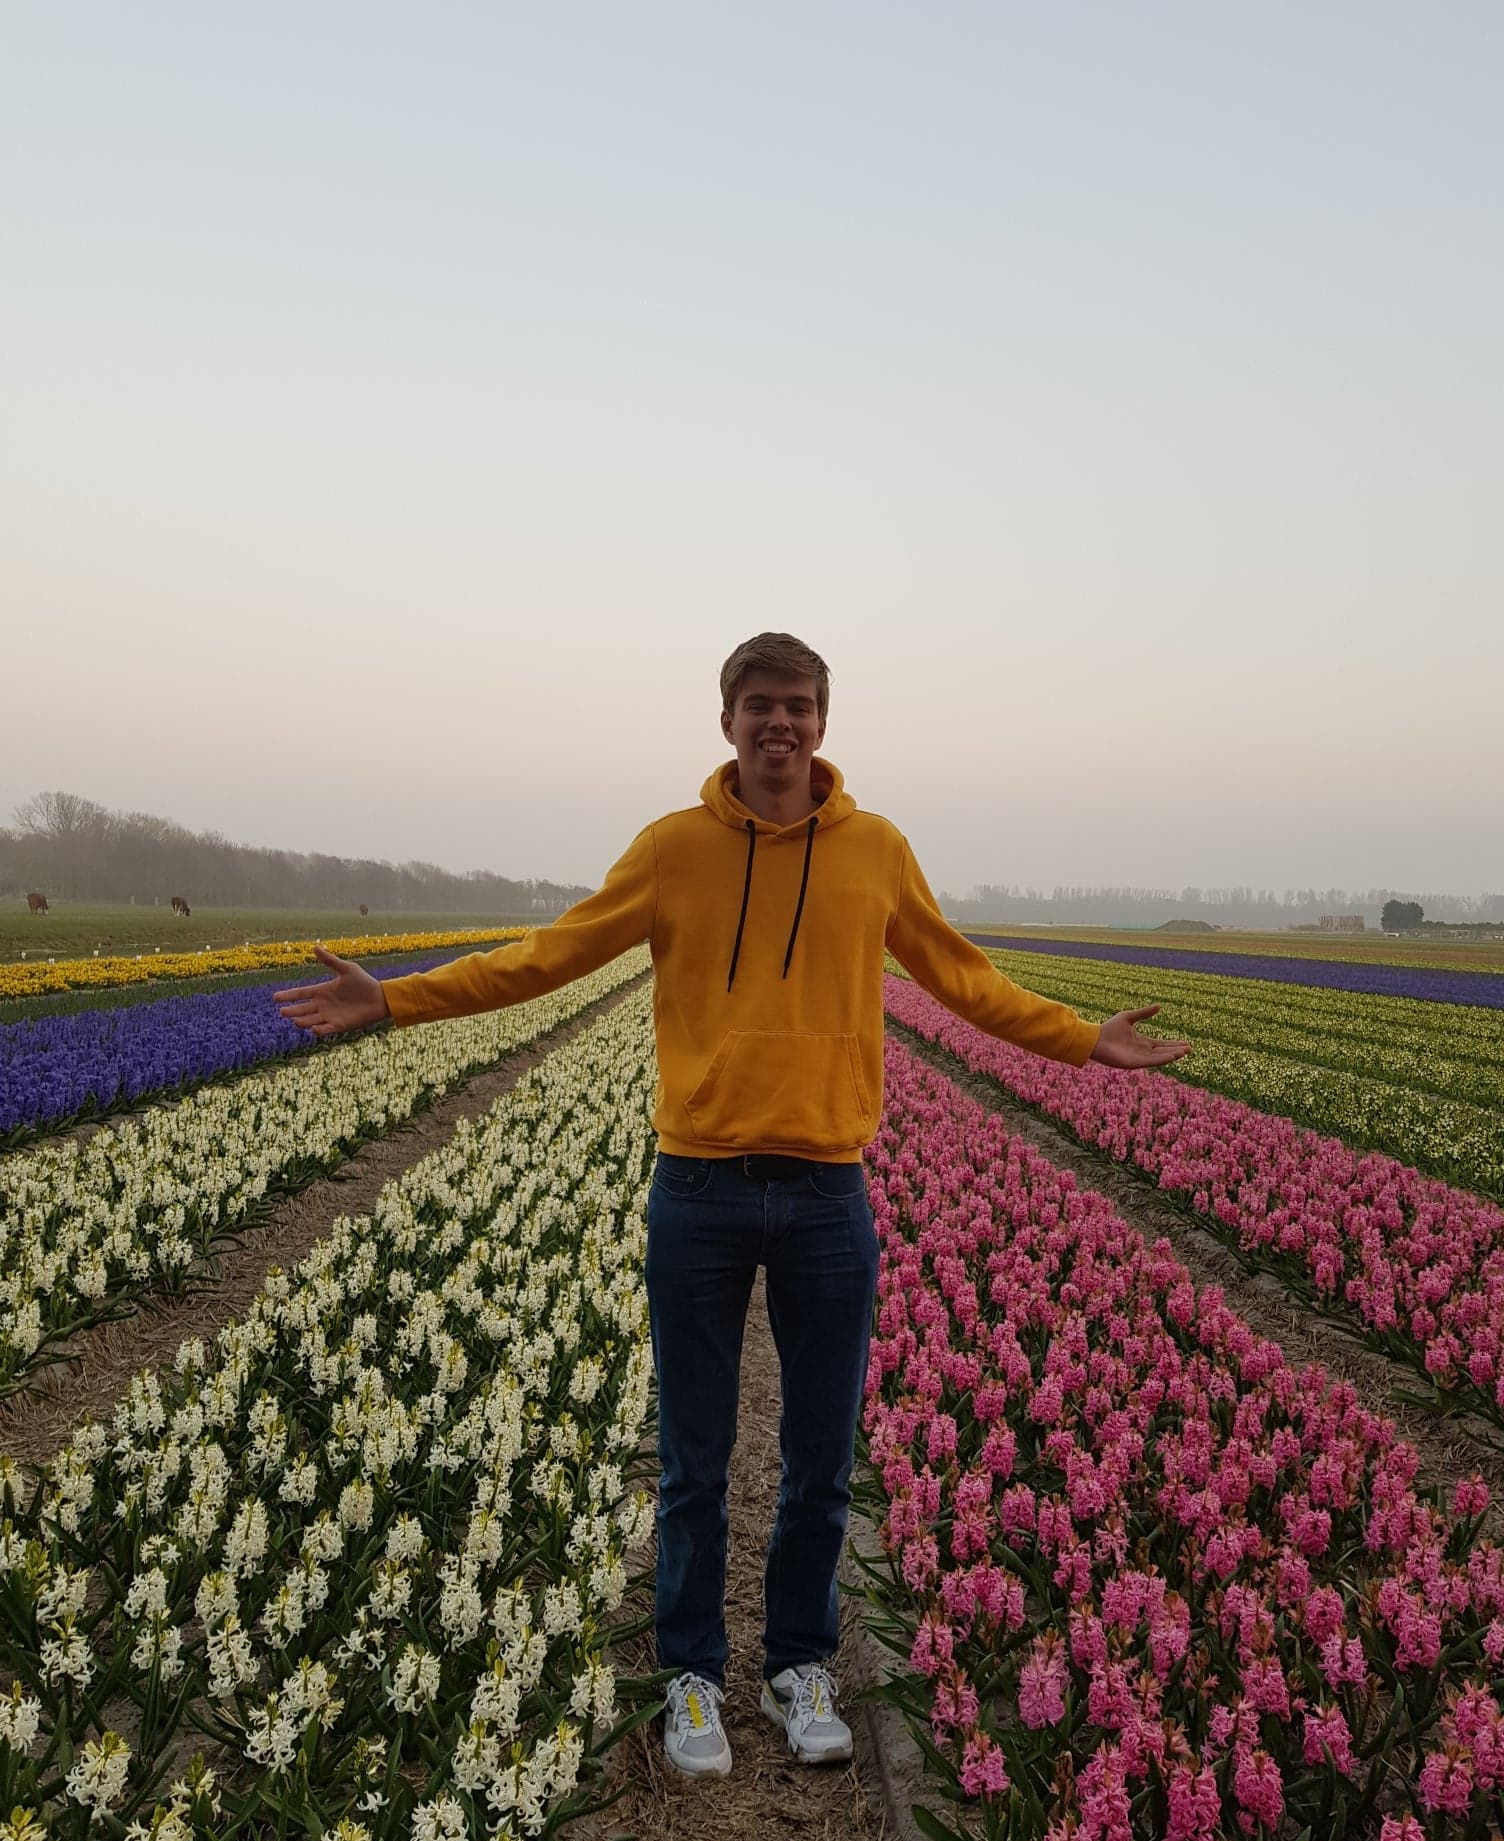
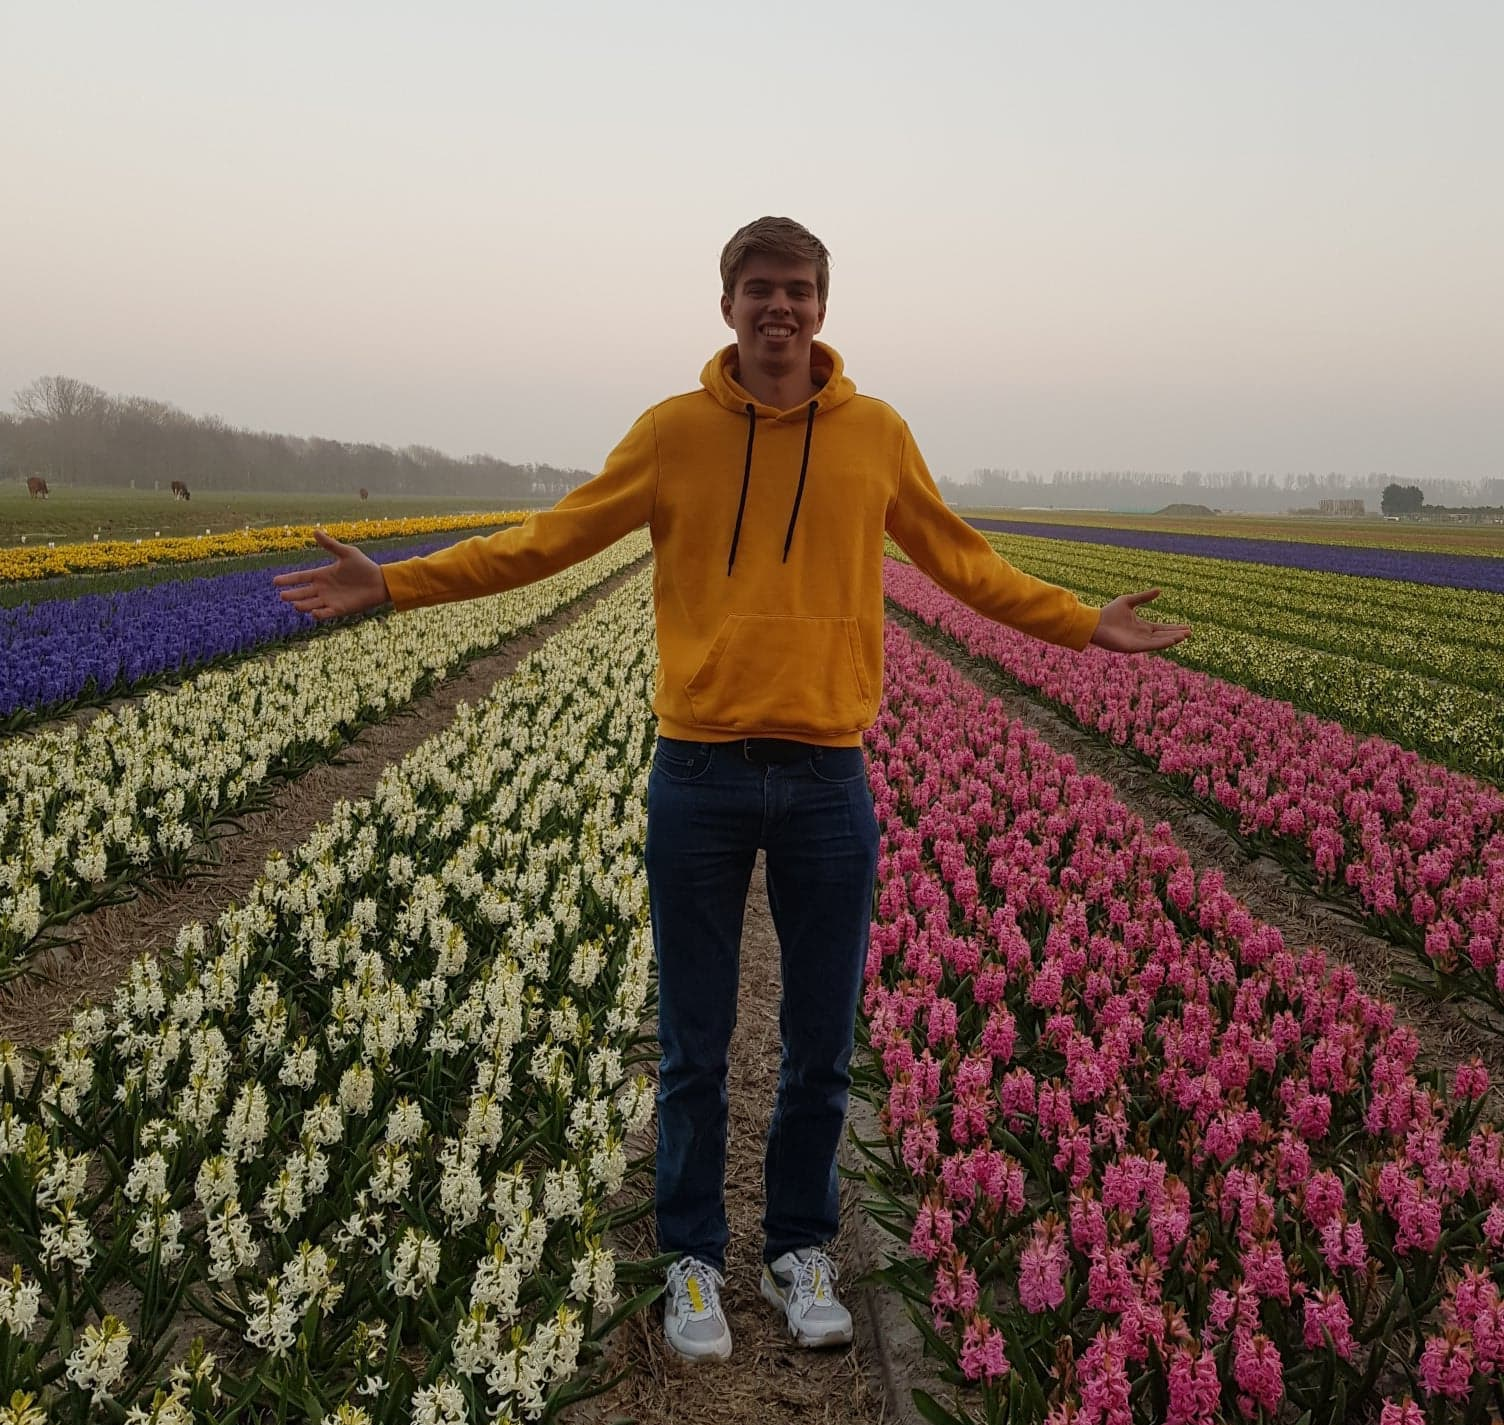
update cover photo

diff --git a/css/style.css b/css/style.css
@@ -251,7 +251,7 @@ figure {
       #colorlib-hero .flexslider .slides li {
         background-repeat: no-repeat;
         background-size: cover;
-        background-position: bottom center;
+        background-position: top center;
         min-height: 400px;
         position: relative; }
     #colorlib-hero .flexslider .flex-control-nav {
